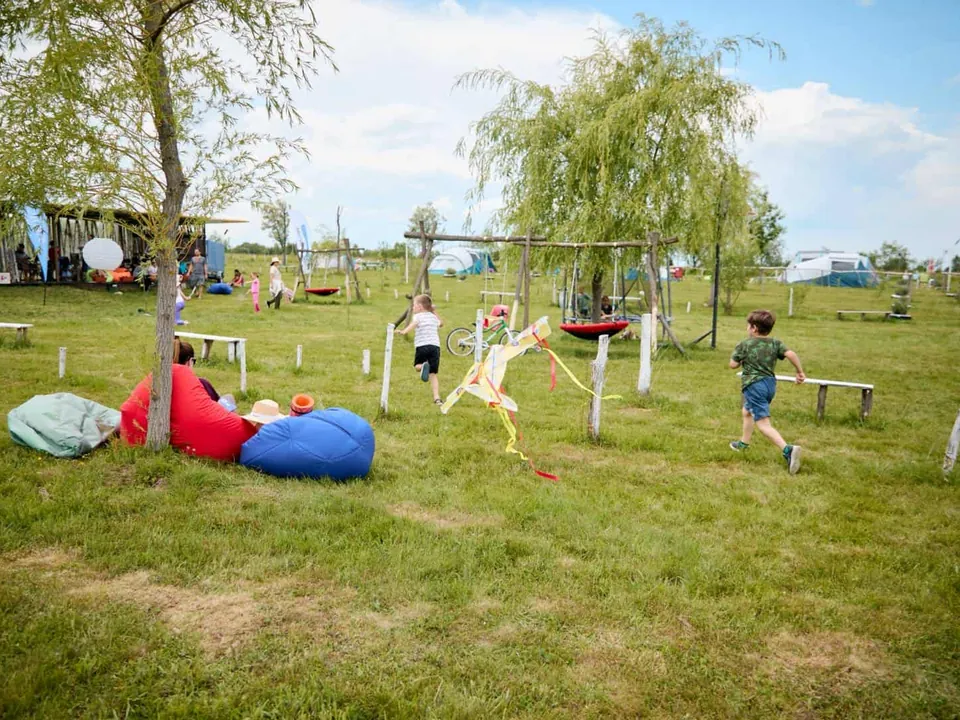
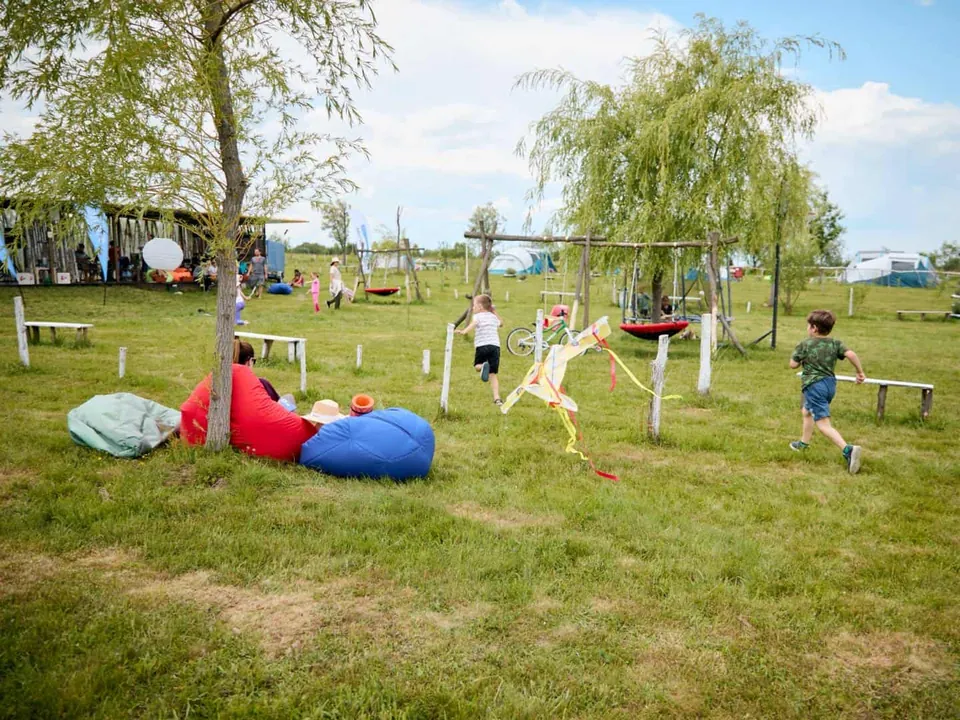
1.3.6: corecturi după review (tranziție foto fără nume dublu, fără poze repetate, prima poză din galerie și închideri cu soare, variante pentru telefon, arhivă fără poze nefolosite)
Claude-Session: https://claude.ai/code/session_0131szi8JTkxRRMrieMFZrn5

diff --git a/gradina-ielelor-integration/assets/css/pages.css b/gradina-ielelor-integration/assets/css/pages.css
@@ -15,6 +15,7 @@
 .gi-page-private .gi-page-hero-media img { view-transition-name: gi-photo-private; }
 /* Glamping: copacul din stânga e întunecat, corturile pe platforme sunt spre dreapta-jos; pe telefon arătăm partea cu corturile. */
 .gi-page-glamping .gi-page-hero-media img { object-position: 74% 78%; }
+.gi-page-camping .gi-closing-media { object-position: 50% 88%; }
 ::view-transition-group(*) { animation-timing-function: cubic-bezier(.2, .8, .2, 1); }
 
 @media (prefers-reduced-motion: reduce) {
@@ -108,7 +109,7 @@
 /* Două poze în poza mare de început (opțional, ca în prima pagină): a doua stă într-o felie înclinată, în dreapta; pe telefon se vede numai prima. */
 .gi-page-hero-media--duo img { position: absolute; inset: 0; }
 .gi-page-hero-media--duo img:first-child { clip-path: polygon(0 0, 66% 0, 48% 100%, 0 100%); }
-.gi-page-hero-media--duo .gi-hero-second { clip-path: polygon(66% 0, 100% 0, 100% 100%, 48% 100%); object-position: 40% 60%; view-transition-name: none; }
+.gi-page-hero-media--duo img.gi-hero-second { clip-path: polygon(66% 0, 100% 0, 100% 100%, 48% 100%); object-position: 40% 60%; view-transition-name: none !important; }
 @media (max-width: 700px) { .gi-page-hero-media--duo img:first-child { clip-path: none; } .gi-page-hero-media--duo .gi-hero-second { display: none; } }
 .gi-page-hero-overlay { position: absolute; inset: 0; z-index: -1; background:
   linear-gradient(180deg, rgb(var(--shade) / calc(.24 * var(--veil))) 0%, rgb(var(--shade) / 0) 18%),
@@ -122,7 +123,7 @@
    începe cu puțin deasupra firului de navigare și, pe ecrane late, se stinge spre dreapta după coloana de text
    (50vw = marginea stângă a textului în acest bloc), ca restul fotografiei să rămână însorit. */
 .gi-page-hero-content::before { content: ""; position: absolute; z-index: -1; top: calc(var(--gi-hero-pad) - 64px); bottom: 0; left: -50vw; right: -50vw; pointer-events: none;
-  background: linear-gradient(180deg, rgb(var(--shade) / 0) 0, rgb(var(--shade) / calc(.4 * var(--veil))) 64px, rgb(var(--shade) / calc(.36 * var(--veil))) 72%, rgb(var(--shade) / calc(.2 * var(--veil))) 100%);
+  background: linear-gradient(180deg, rgb(var(--shade) / 0) 0, rgb(var(--shade) / calc(.46 * var(--veil))) 64px, rgb(var(--shade) / calc(.42 * var(--veil))) 72%, rgb(var(--shade) / calc(.26 * var(--veil))) 100%);
   -webkit-mask-image: linear-gradient(90deg, #000 calc(50vw + 560px), transparent calc(50vw + 1000px)); mask-image: linear-gradient(90deg, #000 calc(50vw + 560px), transparent calc(50vw + 1000px)); }
 .gi-page-hero h1 { font-family: var(--display); font-weight: 500; font-size: clamp(46px, 7.2vw, 92px); line-height: .98; letter-spacing: -.03em; margin: .28em 0 .32em; color: #fff; text-shadow: 0 2px 4px rgb(var(--shade) / .25), 0 2px 28px rgb(var(--shade) / .4); }
 .gi-page-hero h1 em { font-style: italic; color: var(--sun-light); }

diff --git a/gradina-ielelor-integration/assets/js/pages.js b/gradina-ielelor-integration/assets/js/pages.js
@@ -41,7 +41,6 @@
    */
   window.addEventListener('pageswap', function (event) {
     if (!event.viewTransition || (event.activation && event.activation.navigationType === 'traverse')) return;
-    var hero = document.querySelector('.gi-page-hero-media img');
-    if (hero) hero.style.viewTransitionName = 'none';
+    document.querySelectorAll('.gi-page-hero-media img').forEach(function (hero) { hero.style.viewTransitionName = 'none'; });
   });
 }());

diff --git a/gradina-ielelor-integration/includes/offer-pages.php b/gradina-ielelor-integration/includes/offer-pages.php
@@ -238,7 +238,7 @@ function gi_offer_pages() {
             array('q' => 'Am curent și internet?', 'a' => 'Da. Domeniul funcționează pe energie proprie, solară și GPL, așa că ai curent, apă caldă și internet. Lasă acasă doar aparatele electrice mari.'),
             array('q' => 'Cât costă o noapte?', 'a' => 'De la 350 lei în timpul săptămânii și 450 lei vineri și sâmbătă. Prețul final îl vezi când alegi datele.'),
         ),
-        'closing' => array('title' => 'Gata de o noapte', 'title_em' => 'pe malul lacului?', 'image' => 'closing-bungalow-lac-1600.webp'),
+        'closing' => array('title' => 'Gata de o noapte', 'title_em' => 'pe malul lacului?', 'image' => 'closing-bungalow-sori-1280.webp'),
         'seo' => array(
             'title' => 'Bungalow pe malul lacului, Brașov | Grădina Ielelor',
             'description' => 'Patru bungalow-uri cu baie proprie și încălzire, pe malul lacului din Grădina Ielelor, la poalele Munților Făgăraș. Vezi pozele și verifică disponibilitatea.',
@@ -283,8 +283,8 @@ function gi_offer_pages() {
         'gallery' => array('title' => 'Vezi unde îți pui cortul sau rulota', 'images' => array(
             array('src' => 'camping-cort-rand-960.webp', 'alt' => 'Corturi pe un rând, pe iarbă, într-o zi senină', 'caption' => 'Corturi pe iarbă, la soare'),
             array('src' => 'rulote-lac-munte-960.webp', 'alt' => 'Două rulote parcate lângă lac, cu munții în fundal', 'caption' => 'Rulote, lângă lac'),
-            array('src' => 'camping-pajiste-960.webp', 'alt' => 'Pajiște cu sălcii, un loc de joacă și corturi, într-o zi senină, cu munții în fundal', 'caption' => 'Pajiștea cu sălcii'),
-            array('src' => 'camping-cort-albastru-960.webp', 'alt' => 'Un cort mare albastru, pe iarbă, lângă un rând de corturi, sub cer albastru', 'caption' => 'Locuri de cort, pe iarbă'),
+            array('src' => 'camping-pajiste-960.webp', 'alt' => 'Pajiște cu sălcii și corturi, într-o zi senină, cu munții în fundal', 'caption' => 'Pajiștea cu sălcii'),
+            array('src' => 'camping-ponton-960.webp', 'alt' => 'Lacul cu un ponton de lemn, oameni pe SUP-uri și Munții Făgăraș sub cer albastru', 'caption' => 'Lacul și pontonul'),
             array('src' => 'camping-lac-munte-1280.webp', 'alt' => 'Corturi pe malul lacului, cu Munții Făgăraș în fundal', 'caption' => 'Lacul, cu munții în față'),
         )),
         'included' => array(
@@ -387,9 +387,9 @@ function gi_offer_pages() {
             'text' => 'Festivaluri, petreceri și întâlniri pentru familii. Datele exacte le anunțăm pe măsură ce se confirmă. Pregătești o tabără sau un festival? Rezervă-ți perioada din timp.',
         ),
         'gallery' => array('title' => 'Vezi domeniul', 'images' => array(
-            array('src' => 'vatra-oameni-foc-1600.webp', 'alt' => 'Oameni cântând la tobe în jurul unei vetre de foc, noaptea, în Grădina Ielelor', 'caption' => 'Seara, în jurul focului'),
             array('src' => 'festival-scena-960.webp', 'alt' => 'Spectacol de dansuri populare pe scenă, cu copii în public, la un eveniment în Grădina Ielelor', 'caption' => 'Spectacol pe scenă'),
             array('src' => 'festival-aerian-albastru-1280.webp', 'alt' => 'Domeniul văzut de sus, cu tabăra de rulote, lacurile și câmpurile, sub cer albastru', 'caption' => 'Domeniul, văzut de sus'),
+            array('src' => 'vatra-oameni-foc-1600.webp', 'alt' => 'Oameni cântând la tobe în jurul unei vetre de foc, noaptea, în Grădina Ielelor', 'caption' => 'Seara, în jurul focului'),
             array('src' => 'festival-aerian-rulote-1280.webp', 'alt' => 'Tabără de rulote pe domeniu, văzută de sus, într-un festival', 'caption' => 'Tabără de rulote, la un festival'),
             array('src' => 'camping-lac-munte-1280.webp', 'alt' => 'Corturi pe malul lacului, cu Munții Făgăraș în fundal', 'caption' => 'Corturi pe malul lacului'),
             array('src' => 'festival-glamping-sol-1280.webp', 'alt' => 'Corturi de glamping pe iarbă, sub cer albastru, cu munții în depărtare', 'caption' => 'Corturi de glamping'),
@@ -504,14 +504,14 @@ function gi_offer_pages() {
                 'Invitații pot dormi pe domeniu: avem 58 de unități de cazare, între bungalow-uri, corturi de glamping și corturi cu saltele. Seara, lacul și focul fac restul. Spune-ne ce ai în minte și vedem împreună cum ți se potrivește locul.',
             ),
             'image' => 'evenimente-story-lac-960.webp',
-            'alt' => 'Lacul, cu un baldachin alb pe mal și Munții Făgăraș în depărtare',
+            'alt' => 'Lacul, cu o salcie pe mal, sub cer albastru, cu Munții Făgăraș în depărtare',
         ),
         'gallery' => array('title' => 'Vezi locul', 'images' => array(
             array('src' => 'evenimente-lac-sup-960.webp', 'alt' => 'Lacul, cu plăci SUP în prim-plan și Munții Făgăraș în fundal, sub cer albastru', 'caption' => 'Lacul, cu plăci SUP'),
             array('src' => 'bungalow-malul-lacului-960.webp', 'alt' => 'Malul lacului, cu bungalow-uri și un baldachin alb, sub cer și munți', 'caption' => 'Cazare: bungalow-uri pe malul lacului'),
             array('src' => 'bungalow-dormitor-alb-960.webp', 'alt' => 'Dormitor cu două paturi albe într-un bungalow, cu jaluzele de lemn', 'caption' => 'Cazare: dormitor de bungalow'),
             array('src' => 'glamping-interior-pat-720.webp', 'alt' => 'Interiorul unui cort de glamping, cu pat dublu, perne galbene, noptieră și covoare', 'caption' => 'Cazare: cort de glamping cu pat'),
-            array('src' => 'evenimente-vedere-lac-1280.webp', 'alt' => 'Lacul cu un baldachin alb pe mal, corturi pe malul din față și Munții Făgăraș, sub cer albastru', 'caption' => 'Lacul, cu baldachinul de pe mal'),
+            array('src' => 'evenimente-vedere-lac-1280.webp', 'alt' => 'Lacul cu un baldachin alb pe mal, corturi pe malul opus și Munții Făgăraș, sub cer albastru', 'caption' => 'Lacul, cu baldachinul de pe mal'),
         )),
         'included' => array(
             'title' => 'Ce găsești la noi',
@@ -552,7 +552,7 @@ function gi_offer_pages() {
             array('q' => 'Pot veni copii și câini?', 'a' => 'Da, copiii sunt bineveniți și chiar îi încurajăm: nu există limită de vârstă. Câinii mici, până la 15 kg, sunt primiți, cu regulile din Regulament & politici.'),
             array('q' => 'Pot veni cu echipa de la firmă sau cu un grup de retreat?', 'a' => 'Da. Ieșirile cu echipa, retreaturile și cursurile sunt pe pagina Festivaluri & tabere.'),
         ),
-        'closing' => array('title' => 'Ai un eveniment în minte?', 'title_em' => 'Spune-ne câți, când și de ce.', 'image' => 'closing-bungalow-lac-1600.webp'),
+        'closing' => array('title' => 'Ai un eveniment în minte?', 'title_em' => 'Spune-ne câți, când și de ce.', 'image' => 'closing-evenimente-lac-1280.webp'),
         'seo' => array(
             'title' => 'Nunți, botezuri și majorate în aer liber | Grădina Ielelor',
             'description' => 'Nunți, botezuri și majorate în aer liber la Sâmbăta de Sus, Brașov: un lac, Munții Făgăraș în față, o zonă sau toată Grădina doar pentru tine, cazare pe domeniu.',

diff --git a/gradina-ielelor-integration/includes/content.php b/gradina-ielelor-integration/includes/content.php
@@ -39,12 +39,12 @@ function gi_experiences() {
             'booking_label' => 'Rezervă glamping',
             'facilities' => array('4 unități de glamping', '2 + 1 oaspeți', 'Băi și dușuri comune', 'Loc de joacă și lac', 'Două bucătării dotate', 'Hamace și vetre de foc', 'Wi-Fi și două terase', 'Parcare gratuită'),
             'images' => array(
-                array('src' => 'glamping-platforme-apus-960.webp', 'alt' => 'Corturi de glamping pe platforme de lemn, la apus, cu cerul colorat în fundal', 'caption' => 'Corturile stau pe platforme de lemn'),
                 array('src' => 'glamping-platforme-camp-960.webp', 'alt' => 'Corturi de glamping pe platforme de lemn, într-o zi senină, cu un copac în prim-plan', 'caption' => 'Corturile, într-o zi senină'),
                 array('src' => 'glamping-platforma-intrare-960.webp', 'alt' => 'Intrarea unui cort de glamping, pe platformă de lemn, cu două scaune, o măsuță și un covor', 'caption' => 'Masă și scaune la intrare'),
                 array('src' => 'glamping-interior-pat-720.webp', 'alt' => 'Interiorul unui cort de glamping, cu pat dublu, perne galbene, noptieră și covoare', 'caption' => 'Pat adevărat, cu lenjerie'),
                 array('src' => 'glamping-interior-paturi-720.webp', 'alt' => 'Interiorul unui cort de glamping, cu două paturi, comodă, noptieră și covoare', 'caption' => 'Interior cu paturi adevărate'),
                 array('src' => 'glamping-interior-comoda-720.webp', 'alt' => 'Interiorul unui cort de glamping, cu pat, comodă, covor și un puf', 'caption' => 'Mobilier în interior'),
+                array('src' => 'glamping-platforme-apus-960.webp', 'alt' => 'Corturi de glamping pe platforme de lemn, la apus, cu cerul colorat în fundal', 'caption' => 'Corturile stau pe platforme de lemn'),
             ),
         ),
         'bungalow' => array(

diff --git a/gradina-ielelor-integration/templates/offer.php b/gradina-ielelor-integration/templates/offer.php
@@ -71,8 +71,8 @@ gi_part('header');
         <section class="gi-page-hero" aria-labelledby="page-title">
             <figure class="gi-page-hero-media<?php echo !empty($gi_page['hero']['image2']) ? ' gi-page-hero-media--duo' : ''; ?>">
                 <img src="<?php echo esc_url(gi_image_url($gi_page['hero']['image'])); ?>" alt="<?php echo esc_attr($gi_page['hero']['alt']); ?>"<?php echo $gi_srcset($gi_page['hero']['image'], '100vw'); // phpcs:ignore WordPress.Security.EscapeOutput.OutputNotEscaped -- atribute escapate în $gi_srcset. ?> width="1600" height="900" fetchpriority="high">
-                            <?php if (!empty($gi_page['hero']['image2'])) : ?>
-                    <img class="gi-hero-second" src="<?php echo esc_url(gi_image_url($gi_page['hero']['image2'])); ?>" alt="<?php echo esc_attr(!empty($gi_page['hero']['alt2']) ? $gi_page['hero']['alt2'] : ''); ?>" width="1280" height="720" loading="eager" decoding="async">
+                <?php if (!empty($gi_page['hero']['image2'])) : ?>
+                    <img class="gi-hero-second" src="<?php echo esc_url(gi_image_url($gi_page['hero']['image2'])); ?>" alt="<?php echo esc_attr(!empty($gi_page['hero']['alt2']) ? $gi_page['hero']['alt2'] : ''); ?>" width="1280" height="720" loading="lazy" decoding="async">
                 <?php endif; ?>
             </figure>
             <div class="gi-page-hero-overlay"></div>
